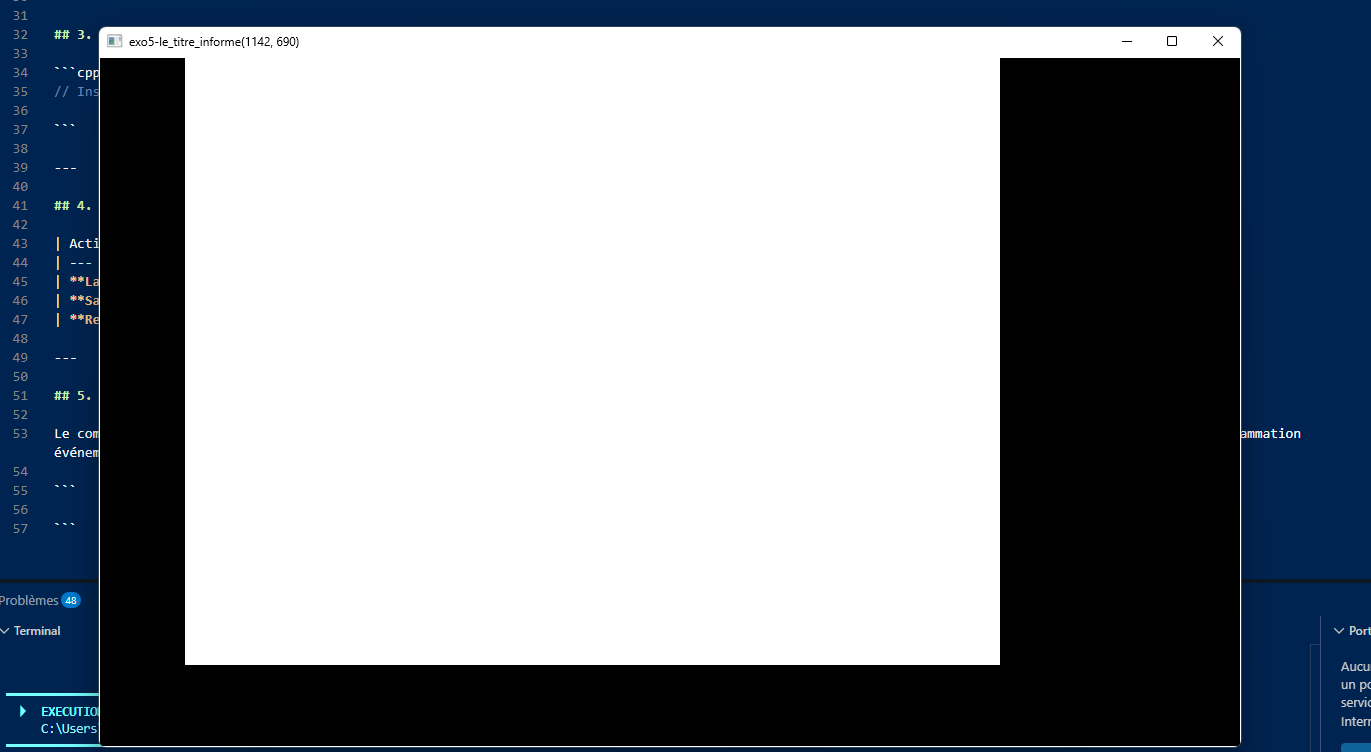
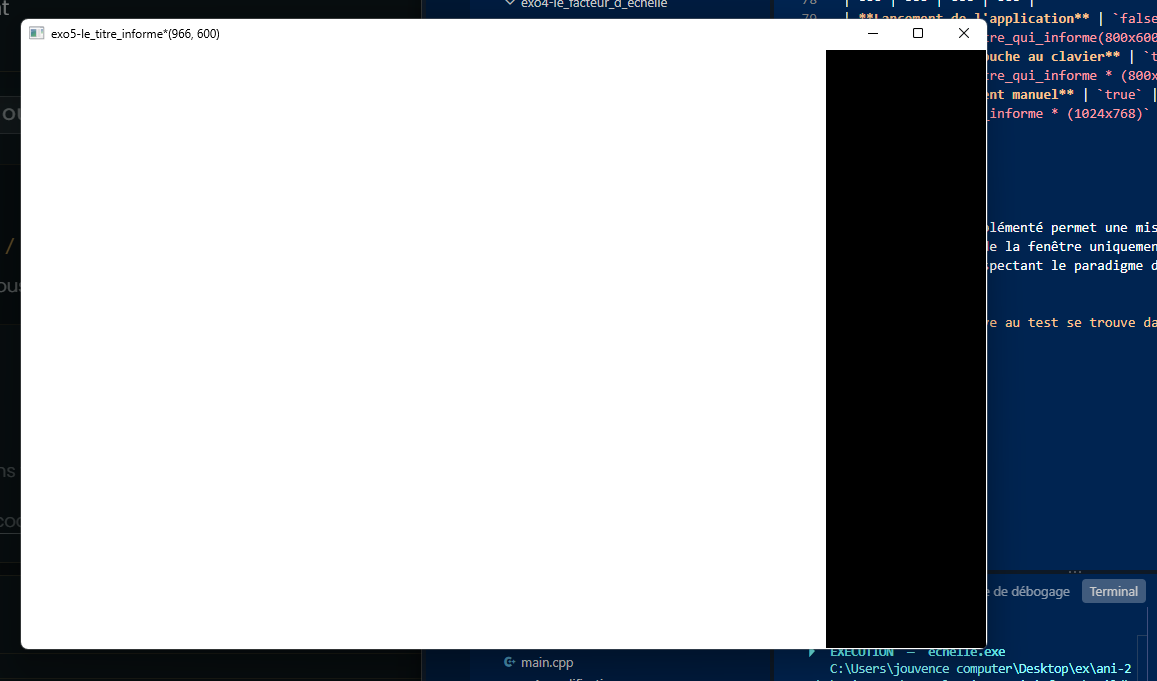
la fenetre de test , le chanchement avec l'asterisque fut marque

Changed region(s): [[0.0, 0.0, 1.0, 1.0]]

diff --git a/chapitre-03/exo5-le_titre_qui_informe/c3-exo5_main.cpp b/chapitre-03/exo5-le_titre_qui_informe/c3-exo5_main.cpp
@@ -41,7 +41,7 @@ int nkmain(const NkEntryState &state) {
             }
           
         }
-              IsModified = false ;
+            
     }
     return 0;
 } 

diff --git a/chapitre-03/exo5-le_titre_qui_informe/c3-exo5_reponse.md b/chapitre-03/exo5-le_titre_qui_informe/c3-exo5_reponse.md
@@ -57,7 +57,7 @@ int nkmain(const NkEntryState &state) {
             }
           
         }
-              IsModified = false ;
+           
     }
     return 0;
 } 
